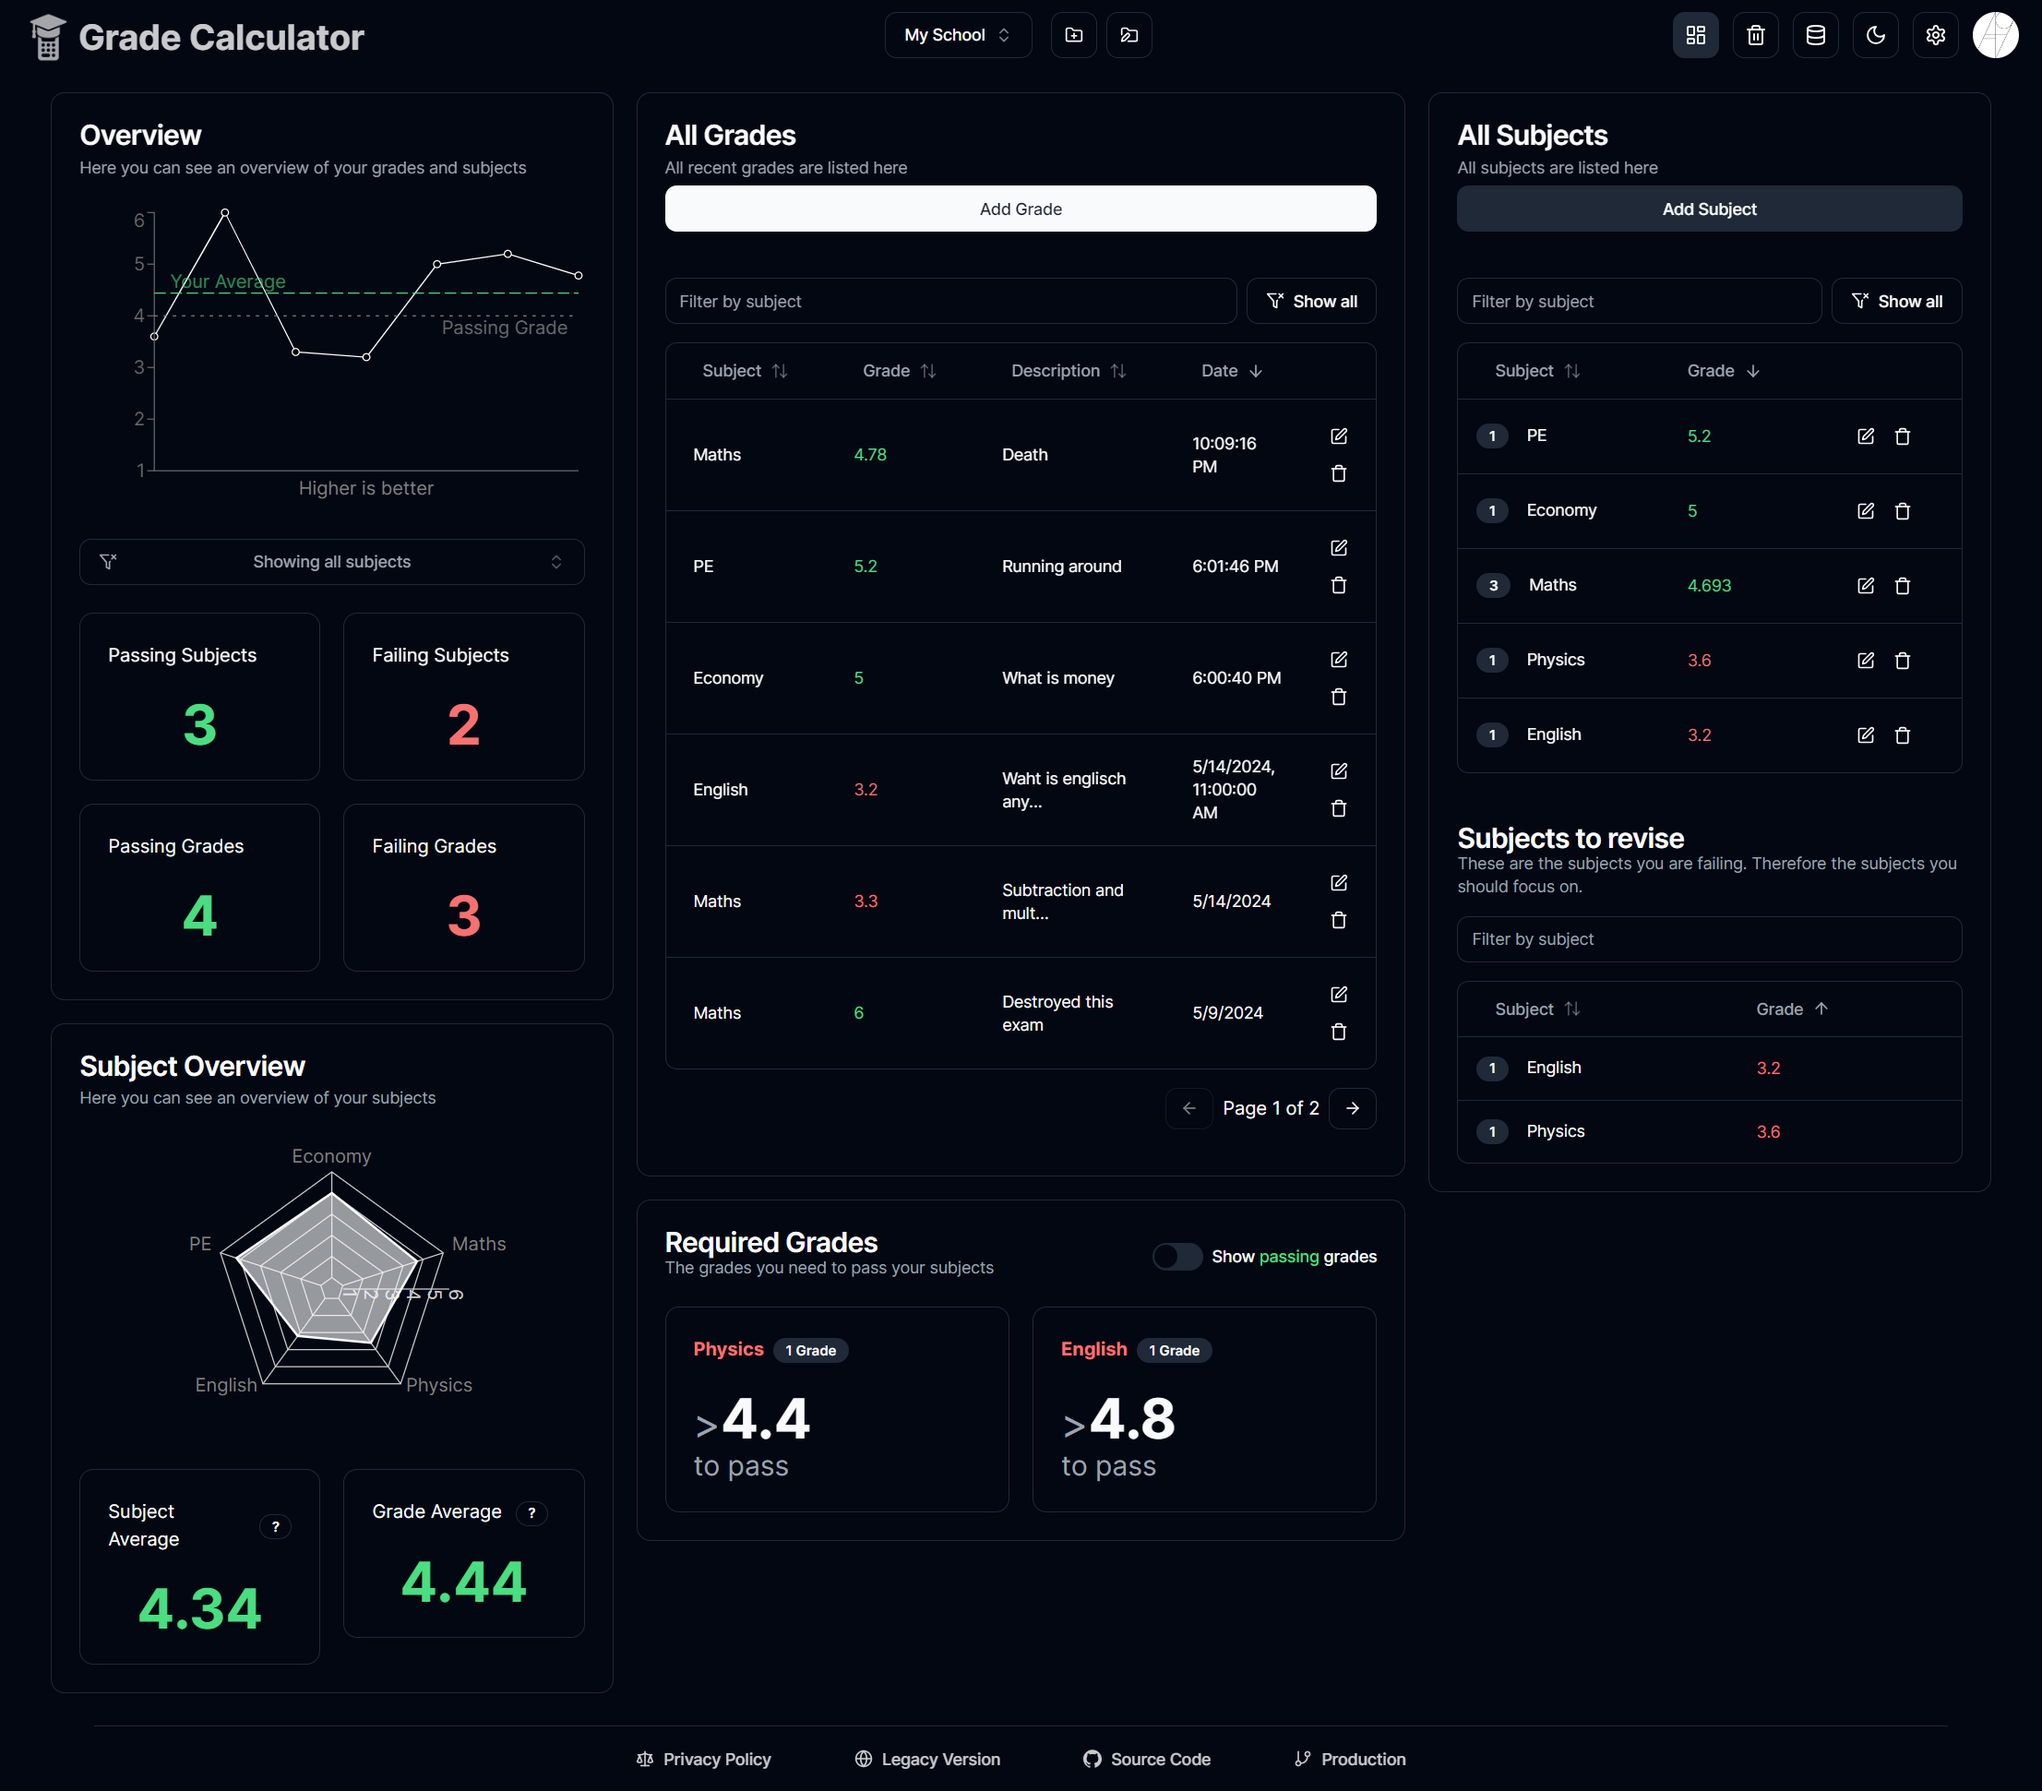
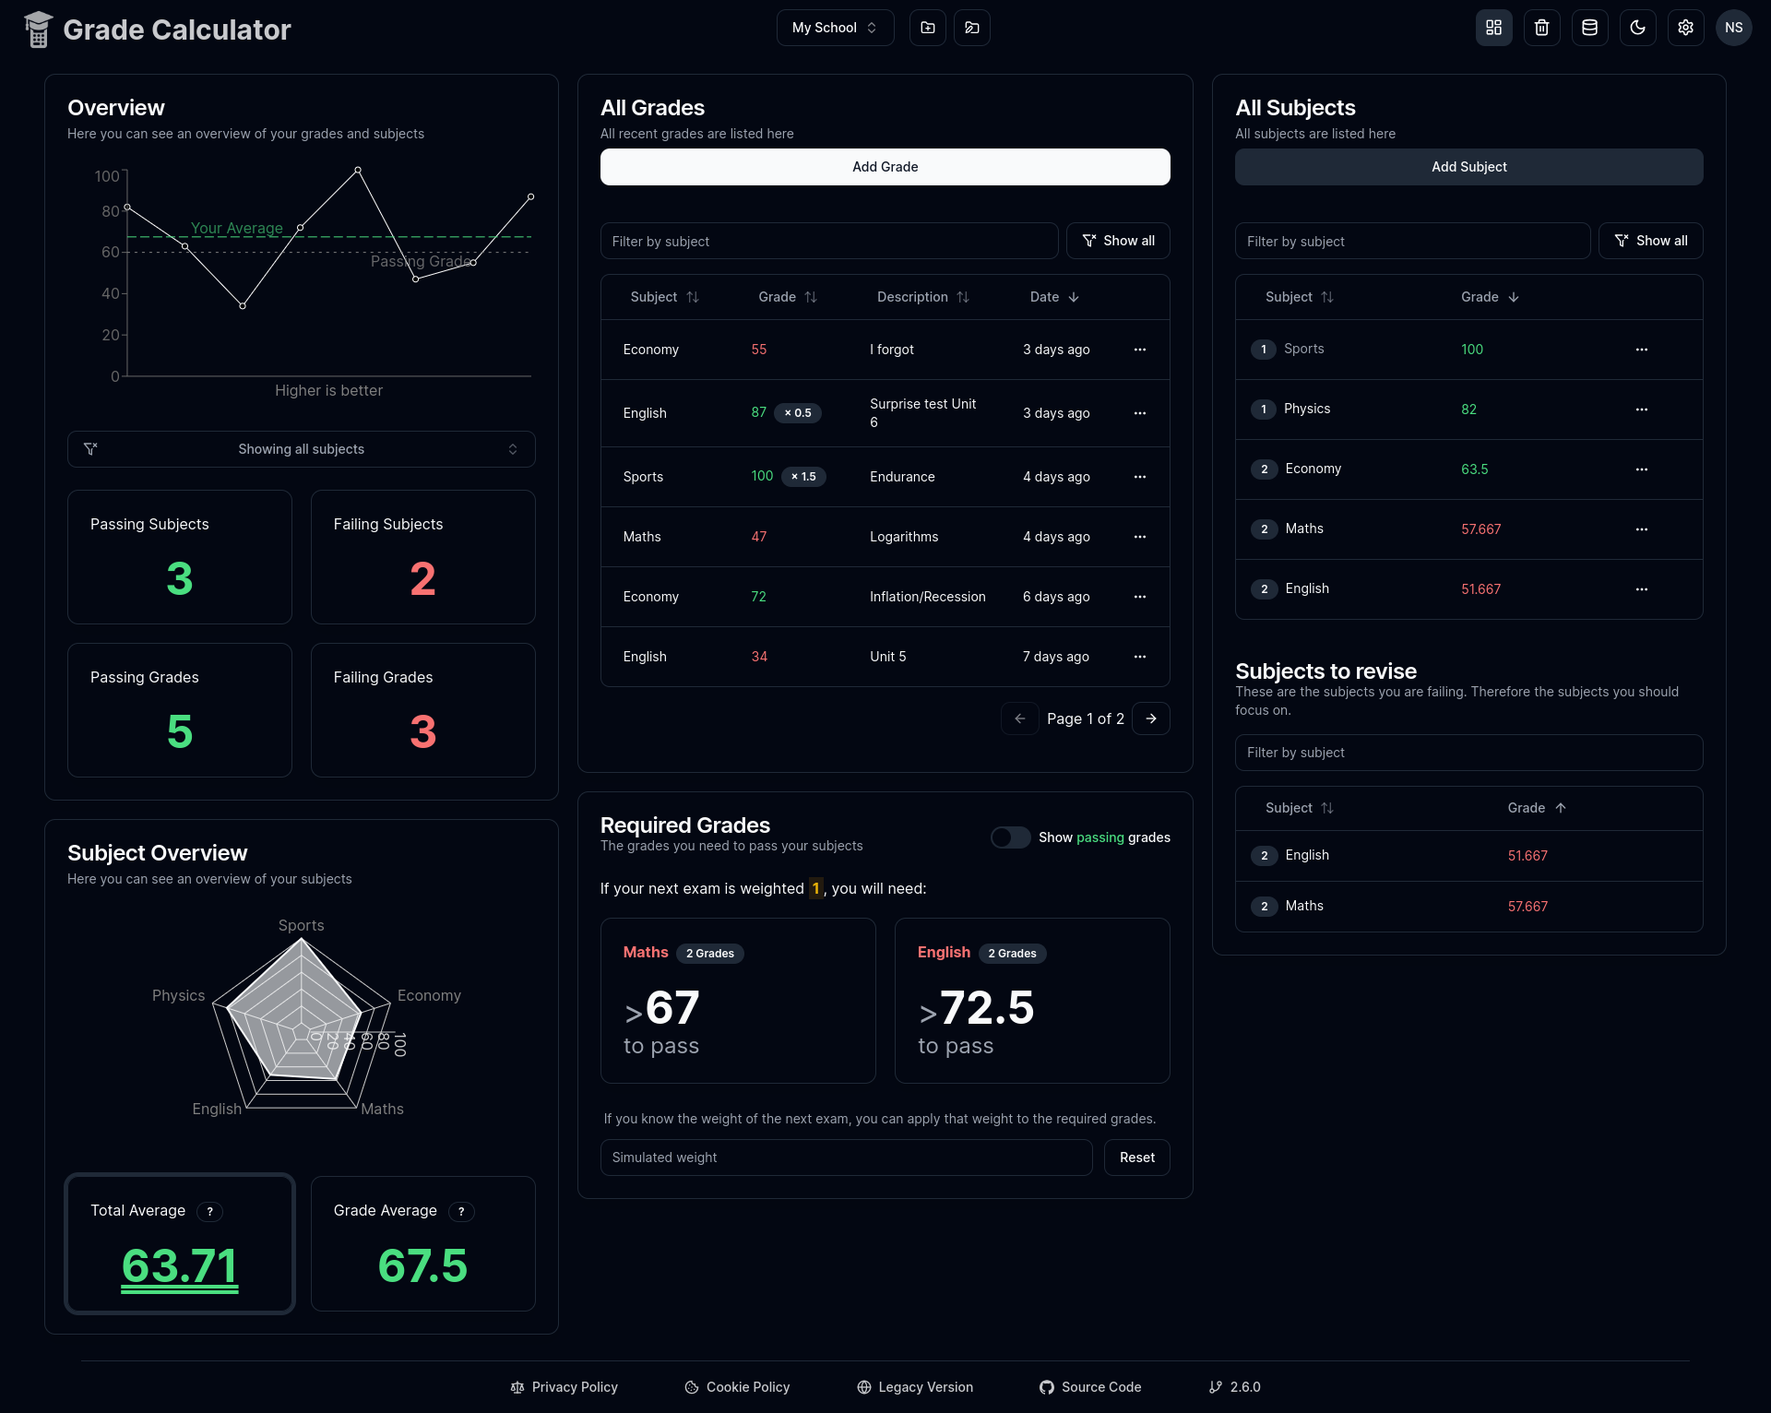
chore: update readme

diff --git a/README.md b/README.md
@@ -1,6 +1,6 @@
 # Grade Calculator - nstr.dev
 
-This is a grade calculator / dashboard that I built to have a better overview of my current academic performance. I was tired of always having to calculate the grade required to pass a subject. And to be honest, the grade dashboard of my school kinda sucks. The UI is horrible, and it doesn't show enough information for my needs. That's why I developed my own dashboard. 
+This is a grade calculator / dashboard that I built to have a better overview of my current academic performance. I was tired of always having to calculate the grade required to pass a subject. And to be honest, the grade dashboard of my school kinda sucks. The UI is horrible, and it doesn't show enough information for my needs. That's why I developed my own dashboard.
 
 ## Key Features
 
@@ -9,28 +9,32 @@ This is a grade calculator / dashboard that I built to have a better overview of
 - Visualizing your grades using graphs and charts
 - View the grades you need to pass a subject at a glance
 - Supports grade weights
+- Mark subjects as irrelevant for academic promotion
 - See the subjects you struggle in summarized
 - Option to wipe account data from the database
 - Cloud synced for easy access anywhere
-- Log in using your service (currently `Discord`, `Google`, `GitHub`)
+- Log in using your service (currently `Discord`, `Google`, `GitHub`) or with a magic link sent to your email
 - Desktop first, but the mobile interface works well thanks to responsive design
-- [Legacy version](https://legacy.grades.nstr.dev/) available for usage without account and cloud (unmaintained but has most features the cloud version does)
+- [Legacy version](https://legacy.grades.nstr.dev/) available for usage without account and cloud (unmaintained)
 - Exporting and importing your grades made easy
+- Categories to organize your subjects (useful if you attend multiple schools or want to separate your subjects)
+- Ability to remove all your data directly from the app
+- Self-hosting will be possible in the future
 
 ## Screenshots
 
-The following examples use the [swiss grade system](https://en.wikipedia.org/wiki/Grading_systems_by_country#Switzerland):
+The screenshots below use following grading system:
 
-|Best grade|Worst grade|Grade required to pass|
-|-|-|-|
-|6|1|4|
+| Best grade | Worst grade | Grade required to pass |
+| ---------- | ----------- | ---------------------- |
+| 100        | 0           | 60                     |
 
-You can change these values according to your needs inside the grade calculators settings. 
+You can change these values according to your needs inside the grade calculators settings.
 
-*Note: only numeric grading scales are supported at the moment. You can use percentages instead, if you use a letter grading scale. I will try to add this feature soon.*
+_Note: only numeric grading scales are supported at the moment. You can use percentages instead, if you use a letter grading scale. I will try to add this feature soon._
 
 ---
 
-![image](https://github.com/noahstreller/notenrechner-next/assets/65013011/4a16ea9a-7776-4620-8b6a-4bcf528ae66c)
-![image](https://github.com/noahstreller/notenrechner-next/assets/65013011/2d9c72a0-2e03-4717-a21a-d9fa7dbcb84b)
+![Dark Screenshot](https://github.com/noahstreller/notenrechner-next/blob/main/public/screenshot-dark.png?raw=true)
 
+![Light Screenshot](https://github.com/noahstreller/notenrechner-next/blob/main/public/screenshot-light.png?raw=true)
